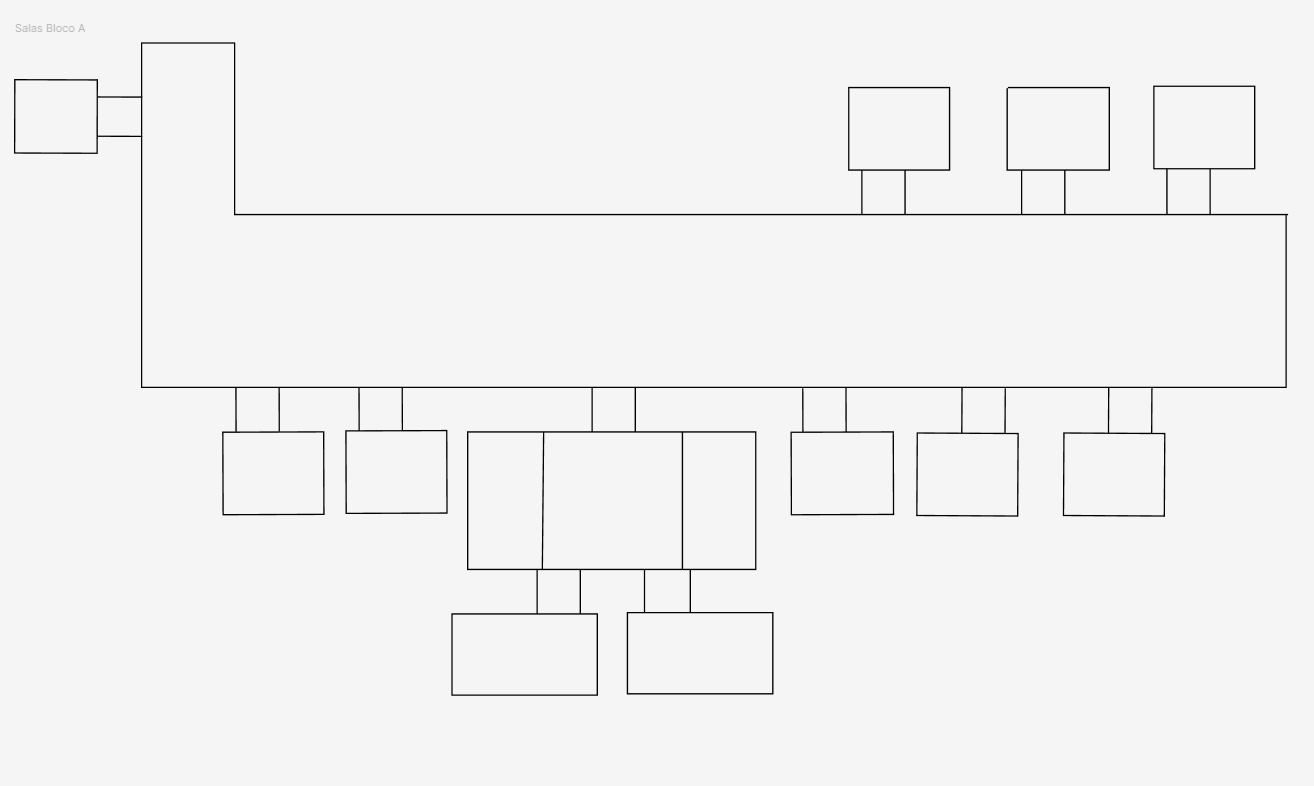
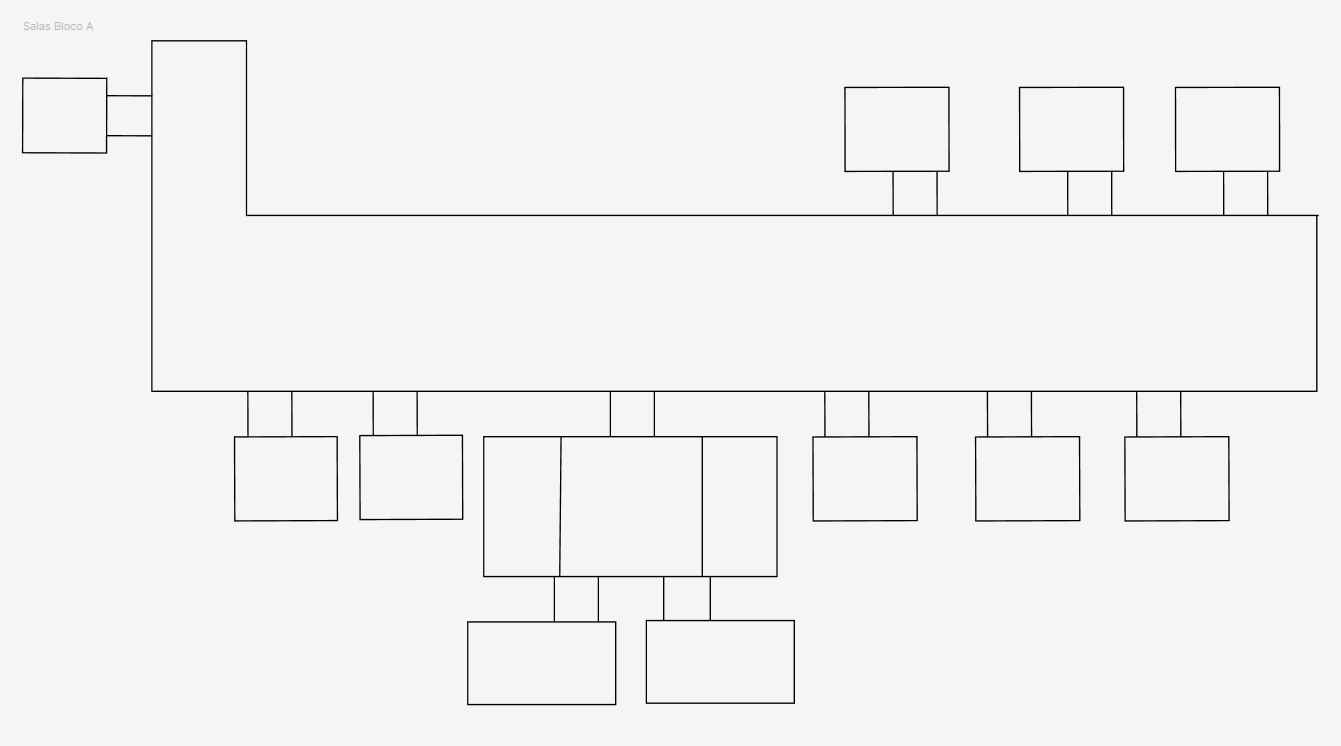
Ajuste das 5 primeiras salas

diff --git a/feira-main/Bloco A - Salas/salas/sala2.html b/feira-main/Bloco A - Salas/salas/sala2.html
@@ -3,24 +3,24 @@
 <head>
     <meta charset="UTF-8">
     <meta name="viewport" content="width=device-width, initial-scale=1.0">
-    <link rel="stylesheet" href="estilo.css">
+    <link rel="stylesheet" href="tipo1.css">
     <title>Sala 2</title>
 </head>
 <body>
     <main>
         <header class="headerLogo">
-            <img src="../img/etecmcm.png" alt="EtecMCM">
+            <img src="../../img/etecmcm.png" alt="EtecMCM">
         </header>
         <div class="container">
-            <img src="../img/salasA.PNG" alt="Mapa Das Salas Do Bloco A" class="salaA">
-                <a href="#" class="proj1">Projeto 1</a>
-                <a href="#" class="pro2 cor-alt">Projeto 2</a>
-                <a href="#" class="proj3">Projeto 3</a>
-                <a href="#" class="proj4 cor-alt">Projeto 4</a>
-                <a href="#" class="proj5">Projeto 5</a>
-                <a href="#" class="proj6 cor-alt">Projeto 6</a>
-                <a href="#" class="proj7">Projeto 7</a>
-                <a href="#" class="proj8 cor-alt">Projeto 8</a>
+            <img src="../../img/sala1.PNG" alt="Mapa Das Salas Do Bloco A" class="salaA" style="transform: rotate(180deg);">
+                <a href="#" class="proj1">Projeto<br>1</a>
+                <a href="#" class="proj2 cor-alt">Projeto<br>2</a>
+                <a href="#" class="proj3">Projeto<br>3</a>
+                <a href="#" class="proj4 cor-alt">Projeto<br>4</a>
+                <a href="#" class="proj5">Projeto<br>5</a>
+                <a href="#" class="proj6 cor-alt">Projeto<br>6</a>
+                <a href="#" class="proj7">Projeto<br>7</a>
+                <a href="#" class="proj8 cor-alt">Projeto<br>8</a>
             </div>
             <div>
                 <h2>Sala 2 - 2ºC</h2>

diff --git a/feira-main/Bloco A - Salas/salas/sala3.html b/feira-main/Bloco A - Salas/salas/sala3.html
@@ -3,24 +3,24 @@
 <head>
     <meta charset="UTF-8">
     <meta name="viewport" content="width=device-width, initial-scale=1.0">
-    <link rel="stylesheet" href="estilo.css">
+    <link rel="stylesheet" href="tipo1.css">
     <title>Sala 3</title>
 </head>
 <body>
     <main>
         <header class="headerLogo">
-            <img src="../img/etecmcm.png" alt="EtecMCM">
+            <img src="../../img/etecmcm.png" alt="EtecMCM">
         </header>
         <div class="container">
-            <img src="../img/salasA.PNG" alt="Mapa Das Salas Do Bloco A" class="salaA">
-                <a href="#" class="proj1">Projeto 1</a>
-                <a href="#" class="pro2 cor-alt">Projeto 2</a>
-                <a href="#" class="proj3">Projeto 3</a>
-                <a href="#" class="proj4 cor-alt">Projeto 4</a>
-                <a href="#" class="proj5">Projeto 5</a>
-                <a href="#" class="proj6 cor-alt">Projeto 6</a>
-                <a href="#" class="proj7">Projeto 7</a>
-                <a href="#" class="proj8 cor-alt">Projeto 8</a>
+            <img src="../../img/sala1.PNG" alt="Mapa Das Salas Do Bloco A" class="salaA" style="transform: rotate(180deg);">
+                <a href="#" class="proj1">Projeto<br>1</a>
+                <a href="#" class="proj2 cor-alt">Projeto<br>2</a>
+                <a href="#" class="proj3">Projeto<br>3</a>
+                <a href="#" class="proj4 cor-alt">Projeto<br>4</a>
+                <a href="#" class="proj5">Projeto<br>5</a>
+                <a href="#" class="proj6 cor-alt">Projeto<br>6</a>
+                <a href="#" class="proj7">Projeto<br>7</a>
+                <a href="#" class="proj8 cor-alt">Projeto<br>8</a>
             </div>
             <div>
                 <h2>Sala 3 - 1ºF</h2>

diff --git a/feira-main/Bloco A - Salas/salas/sala4.html b/feira-main/Bloco A - Salas/salas/sala4.html
@@ -3,24 +3,24 @@
 <head>
     <meta charset="UTF-8">
     <meta name="viewport" content="width=device-width, initial-scale=1.0">
-    <link rel="stylesheet" href="estilo.css">
+    <link rel="stylesheet" href="tipo1.css">
     <title>Sala 4</title>
 </head>
 <body>
     <main>
         <header class="headerLogo">
-            <img src="../img/etecmcm.png" alt="EtecMCM">
+            <img src="../../img/etecmcm.png" alt="EtecMCM">
         </header>
         <div class="container">
-            <img src="../img/salasA.PNG" alt="Mapa Das Salas Do Bloco A" class="salaA">
-                <a href="#" class="proj1">Projeto 1</a>
-                <a href="#" class="pro2 cor-alt">Projeto 2</a>
-                <a href="#" class="proj3">Projeto 3</a>
-                <a href="#" class="proj4 cor-alt">Projeto 4</a>
-                <a href="#" class="proj5">Projeto 5</a>
-                <a href="#" class="proj6 cor-alt">Projeto 6</a>
-                <a href="#" class="proj7">Projeto 7</a>
-                <a href="#" class="proj8 cor-alt">Projeto 8</a>
+            <img src="../../img/sala1.PNG" alt="Mapa Das Salas Do Bloco A" class="salaA" style="transform: rotate(180deg);">
+                <a href="#" class="proj1">Projeto<br>1</a>
+                <a href="#" class="proj2 cor-alt">Projeto<br>2</a>
+                <a href="#" class="proj3">Projeto<br>3</a>
+                <a href="#" class="proj4 cor-alt">Projeto<br>4</a>
+                <a href="#" class="proj5">Projeto<br>5</a>
+                <a href="#" class="proj6 cor-alt">Projeto<br>6</a>
+                <a href="#" class="proj7">Projeto<br>7</a>
+                <a href="#" class="proj8 cor-alt">Projeto<br>8</a>
             </div>
             <div>
                 <h2>Sala 4 - 2ºF</h2>

diff --git a/feira-main/Bloco A - Salas/salas/sala5.html b/feira-main/Bloco A - Salas/salas/sala5.html
@@ -3,21 +3,21 @@
 <head>
     <meta charset="UTF-8">
     <meta name="viewport" content="width=device-width, initial-scale=1.0">
-    <link rel="stylesheet" href="estilo.css">
+    <link rel="stylesheet" href="tipo2.css">
     <title>Sala 5</title>
 </head>
 <body>
     <main>
         <header class="headerLogo">
-            <img src="../img/etecmcm.png" alt="EtecMCM">
+            <img src="../../img/etecmcm.png" alt="EtecMCM">
         </header>
         <div class="container">
-            <img src="../img/salasA.PNG" alt="Mapa Das Salas Do Bloco A" class="salaA">
-                <a href="#" class="proj1">Projeto 1</a>
-                <a href="#" class="pro2 cor-alt">Projeto 2</a>
-                <a href="#" class="proj3">Projeto 3</a>
-                <a href="#" class="proj4 cor-alt">Projeto 4</a>
-                <a href="#" class="proj5">Projeto 5</a>
+            <img src="../../img/sala1.PNG" alt="Mapa Das Salas Do Bloco A" class="salaA" style="transform: rotate(180deg);">
+                <a href="#" class="proj1">Projeto<br>1</a>
+                <a href="#" class="proj2 cor-alt">Projeto<br>2</a>
+                <a href="#" class="proj3">Projeto<br>3</a>
+                <a href="#" class="proj4 cor-alt">Projeto<br>4</a>
+                <a href="#" class="proj5">Projeto<br>5</a>
             </div>
             <div>
                 <h2>Sala 5 - 3ºF</h2>

diff --git a/feira-main/Bloco A - Salas/estilo.css b/feira-main/Bloco A - Salas/estilo.css
@@ -105,18 +105,18 @@
   }
   
   /* ======== POSIÇÕES RELATIVAS ======== */
-  .fem { top: 80.5%; left: 53%; text-align: center;}
-  .masc { top: 80.5%; left: 40.7%; text-align: center;}
-  .elevador {top: 17.5%; left: 6.6%;}
-  .escadas { top: 63%; left: 46.7%; }
-  .sala1 { top: 59%; left: 22.4%; }
-  .sala2 { top: 59%; left: 31.2%; }
-  .sala3 { top: 59%; left: 63.4%; }
-  .sala4 { top: 59%; left: 72.5%; }
-  .sala5 { top: 59%; left: 83.1%; }
-  .sala6 { top: 18.5%; left: 89.5%; }
-  .sala7 { top: 18.5%; left: 79%; }
-  .sala8 { top: 18.5%; left: 67.5%; }
+  .fem { top: 85.5%; left: 53.5%; text-align: center;}
+  .masc { top: 85.5%; left: 40.7%; text-align: center;}
+  .elevador {top: 18.5%; left: 7%;}
+  .escadas { top: 67%; left: 47.2%; }
+  .sala1 { top: 63%; left: 22.7%; }
+  .sala2 { top: 63%; left: 31.6%; }
+  .sala3 { top: 63%; left: 63.7%; }
+  .sala4 { top: 63%; left: 75.3%; }
+  .sala5 { top: 63%; left: 86.1%; }
+  .sala6 { top: 20%; left: 89.5%; }
+  .sala7 { top: 20%; left: 78.5%; }
+  .sala8 { top: 20%; left: 66%; }
   
   /* ======== RESPONSIVIDADE ======== */
   @media (max-width: 768px) {

diff --git a/feira-main/Bloco A - Salas/salas/tipo3.css b/feira-main/Bloco A - Salas/salas/tipo3.css
@@ -115,11 +115,14 @@ main {
 }
 
 /* ======== POSIÇÕES RELATIVAS ======== */
-.proj1 { top: 80%; left: 40%;}
-.proj2 { top: 80%; left: 65%;}
-.proj3 { top: 45%; left: 78%; transform: rotate(90deg);}
-.proj4 { top: 18.5%; left: 65%;}
-.proj5 { top: 18.5%; left: 40%;}
+.proj1 { top: 35%; left: 8%; transform: rotate(-90deg);}
+.proj2 { top: 65%; left: 8%; transform: rotate(-90deg);}
+.proj3 { top: 80%; left: 40%; }
+.proj4 { top: 80%; left: 65%; }
+.proj5 { top: 65%; left: 78%; transform: rotate(90deg);}
+.proj6 { top: 35%; left: 78%; transform: rotate(90deg);}
+.proj7 { top: 18.5%; left: 65%; }
+.proj8 { top: 18.5%; left: 40%; }
 
 /* ======== RESPONSIVIDADE ======== */
 @media (max-width: 768px) {
